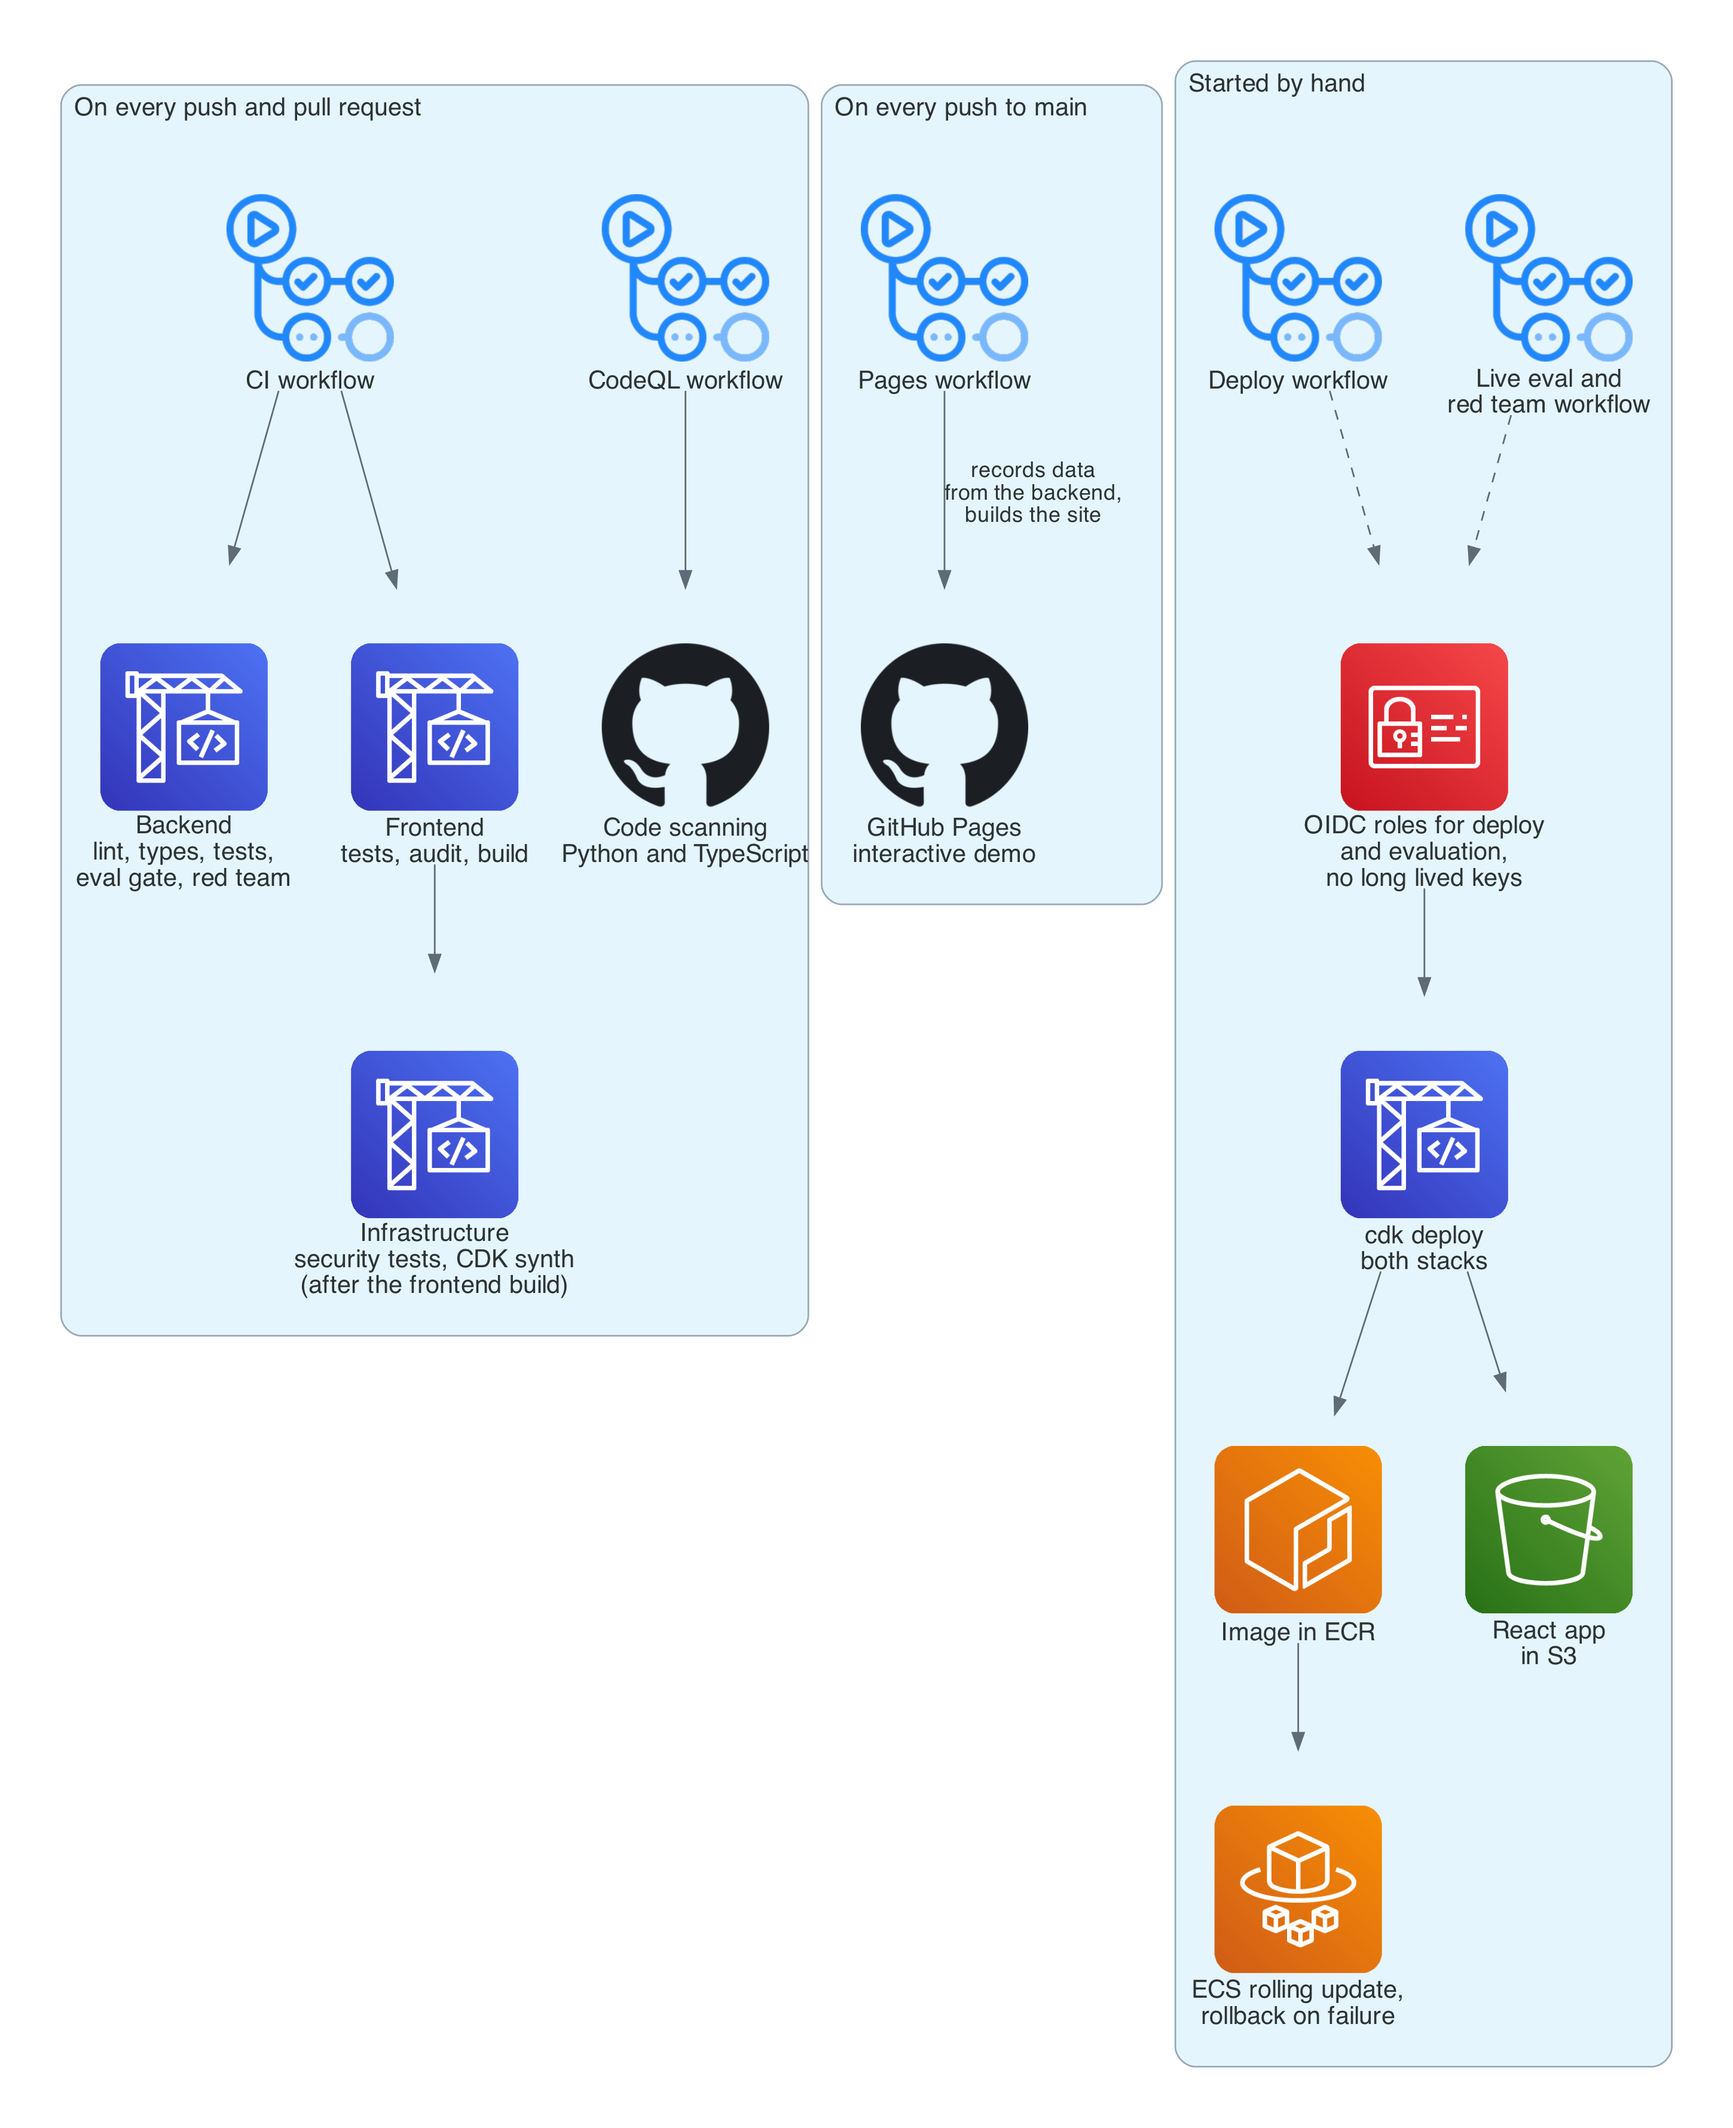
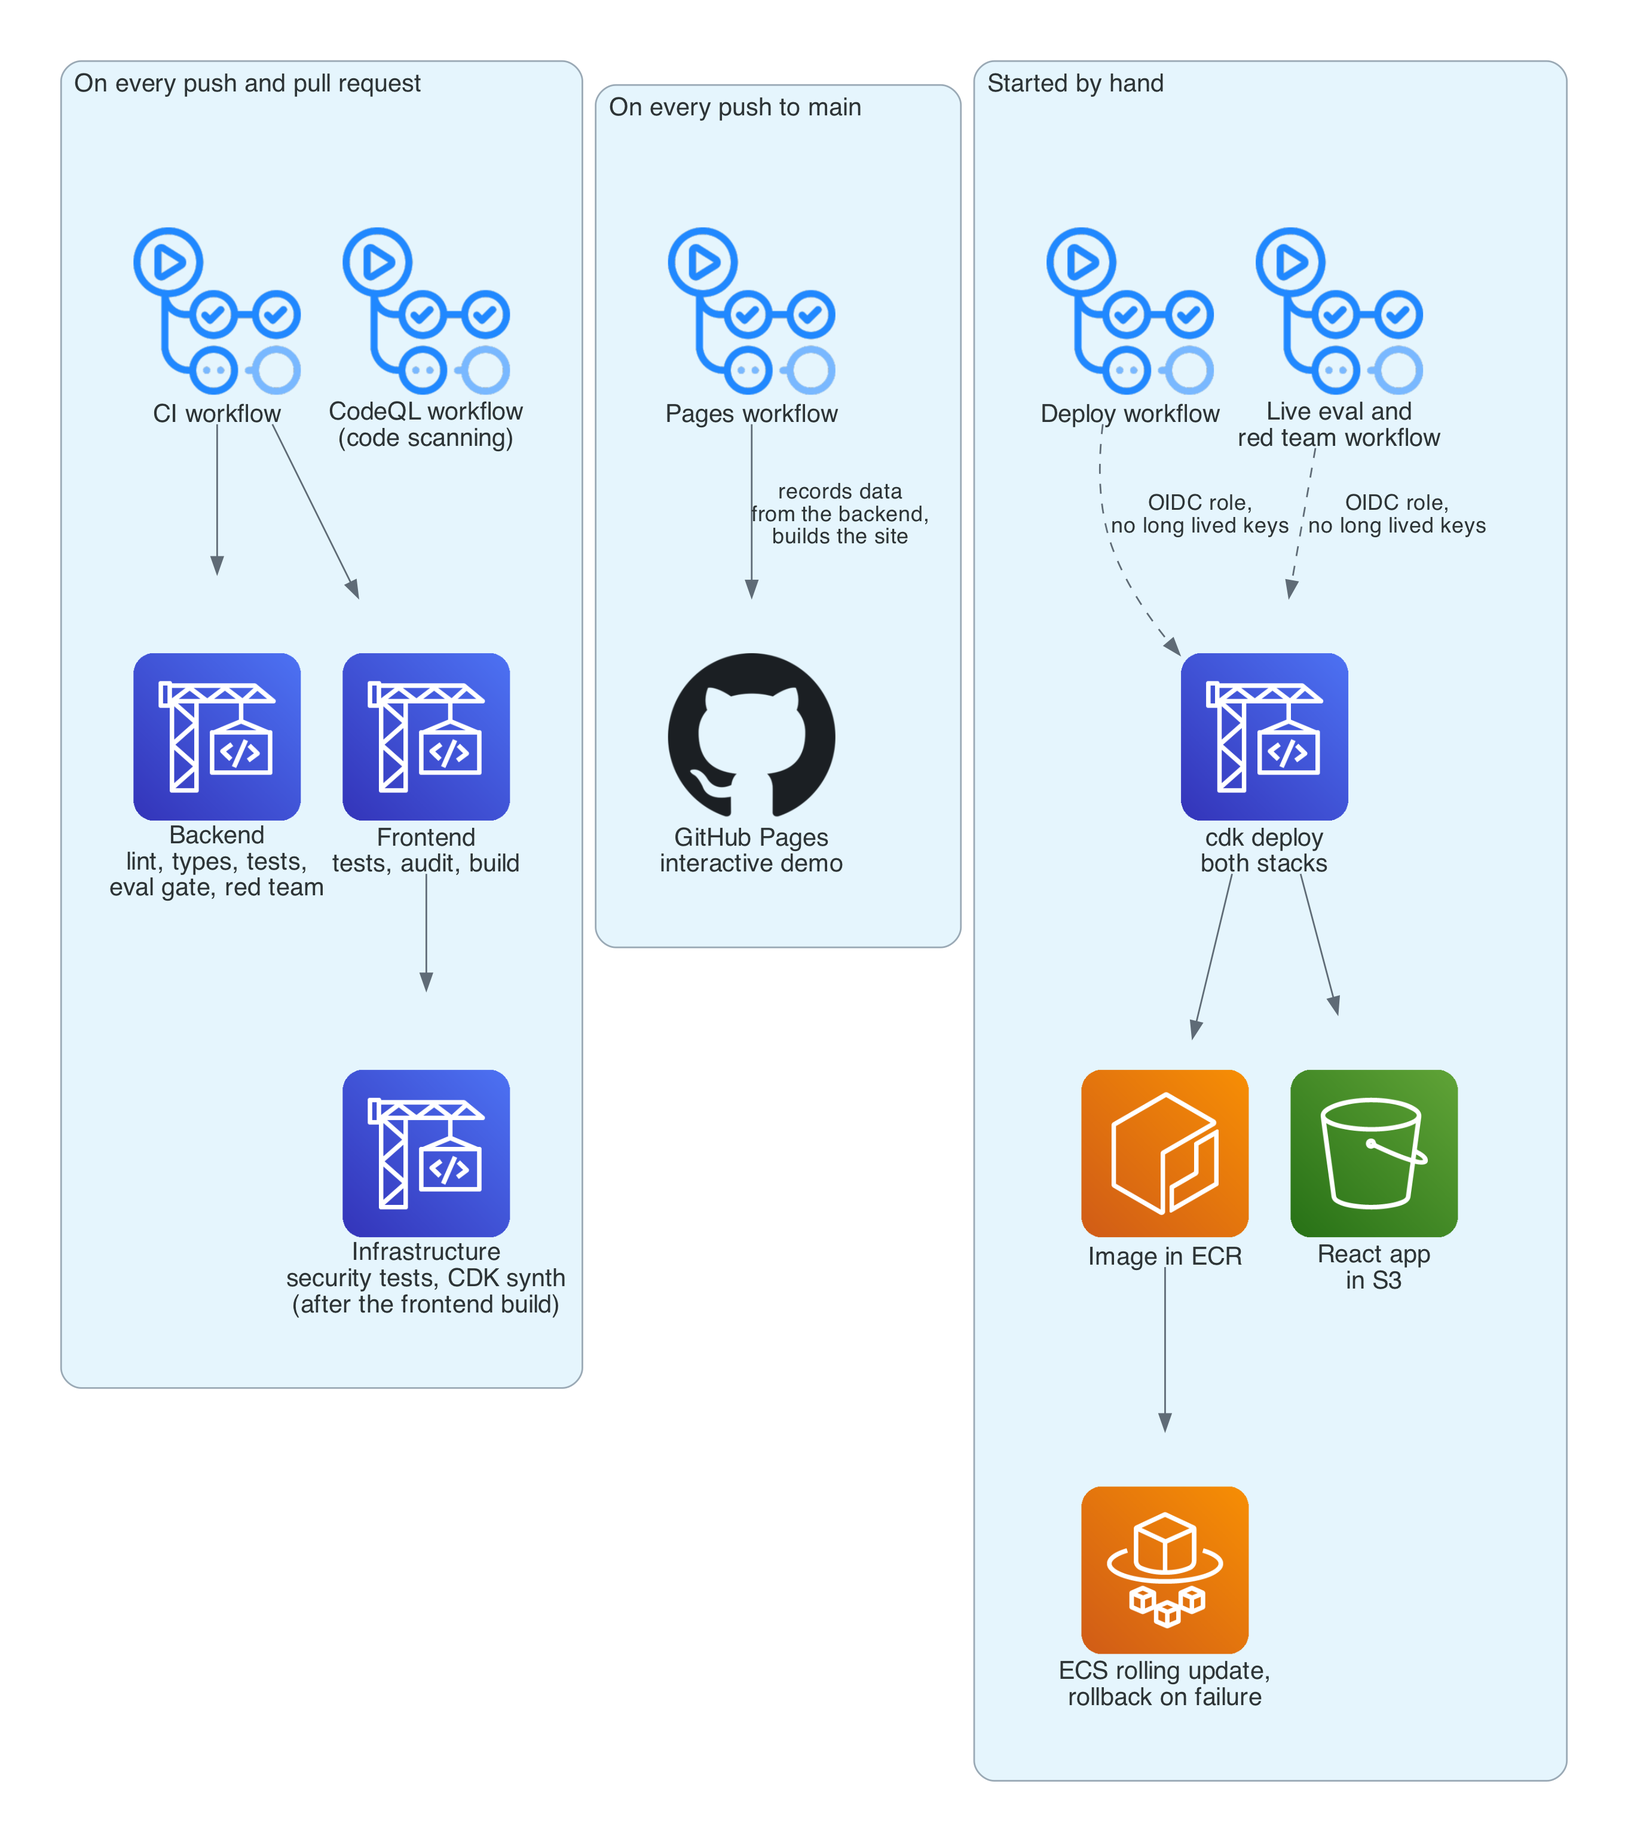
Resize the release path diagram

Changed region(s): [[0.0312, 0.0311, 0.9673, 0.9968], [0.9361, 0.0311, 0.9673, 0.0623]]

diff --git a/docs/diagrams/generate.py b/docs/diagrams/generate.py
@@ -31,9 +31,9 @@ EDGE = {"fontsize": "14", "fontname": "Helvetica", "color": "#5F6B76", "fontcolo
 BLUE = "#E5F5FD"
 
 
-def group(label: str, colour: str = BLUE) -> Cluster:
+def group(label: str, colour: str = BLUE, margin: str = "24") -> Cluster:
     """A group inside a frame. The colour is set here because a nested group would otherwise take the next colour in the library's cycle."""
-    return Cluster(label, graph_attr={"bgcolor": colour, "pencolor": "#9AA9B5", "fontsize": "15", "fontname": "Helvetica", "margin": "24"})
+    return Cluster(label, graph_attr={"bgcolor": colour, "pencolor": "#9AA9B5", "fontsize": "15", "fontname": "Helvetica", "margin": margin})
 
 
 def aws_cloud() -> Cluster:
@@ -101,32 +101,33 @@ def aws_architecture() -> None:
 
 
 def release_path() -> None:
-    """The three workflows that run on GitHub, as .github/workflows defines them. CI does not gate the deploy: deploy is started by hand."""
-    graph = GRAPH | {"rankdir": "TB", "splines": "spline", "ranksep": "0.7", "nodesep": "0.7"}
+    """The workflows that run on GitHub, as .github/workflows defines them. CI does not gate the deploy: deploy is started by hand.
+    The three lanes stand side by side and each one reads from top to bottom."""
+    graph = GRAPH | {"rankdir": "TB", "splines": "spline", "ranksep": "0.5", "nodesep": "0.35"}
     with Diagram("", filename=str(OUT / "release_path"), show=False, direction="TB", graph_attr=graph, node_attr=NODE, edge_attr=EDGE, outformat="png"):
-        with group("On every push and pull request"):
+        with group("On every push and pull request", margin="44"):
+            codeql = GithubActions("CodeQL workflow\n(code scanning)")
             ci = GithubActions("CI workflow")
             backend = Codebuild("Backend\nlint, types, tests,\neval gate, red team")
             frontend = Codebuild("Frontend\ntests, audit, build")
             infra = Codebuild("Infrastructure\nsecurity tests, CDK synth\n(after the frontend build)")
             ci >> [backend, frontend]
             frontend >> infra
-            codeql = GithubActions("CodeQL workflow")
-            codeql >> Github("Code scanning\nPython and TypeScript")
-        with group("On every push to main"):
+        with group("On every push to main", margin="44"):
             pages = GithubActions("Pages workflow")
             demo = Github("GitHub Pages\ninteractive demo")
             pages >> Edge(label="records data\nfrom the backend,\nbuilds the site") >> demo
-        with group("Started by hand"):
+        with group("Started by hand", margin="44"):
             deploy = GithubActions("Deploy workflow")
             live = GithubActions("Live eval and\nred team workflow")
-            role = IAM("OIDC roles for deploy\nand evaluation,\nno long lived keys")
             cdk = Codebuild("cdk deploy\nboth stacks")
             ecr = ECR("Image in ECR")
             ecs = Fargate("ECS rolling update,\nrollback on failure")
             site = S3("React app\nin S3")
-            [deploy, live] >> Edge(style="dashed") >> role
-            role >> cdk >> ecr >> ecs
+            oidc = Edge(style="dashed", label="OIDC role,\nno long lived keys")
+            deploy >> oidc >> cdk
+            live >> oidc >> cdk
+            cdk >> ecr >> ecs
             cdk >> site
 
 

diff --git a/README.md b/README.md
@@ -156,7 +156,7 @@ These principles settled the design questions below.
 | AWS CDK (Python) | Two stacks, `ClaimsAdjudicationData` and `ClaimsAdjudicationApp`. Synthesis needs no credentials. Tests check the security properties of the synthesised template and the facts the architecture diagram shows. The task role names its models, guardrail and resources. It has two wildcards: the region in foundation model ARNs, which global inference profiles need, and the CloudWatch metrics call, which is limited to one namespace. `-c production=true` keeps the data and logs when the stack is deleted |
 | GitHub Actions | Workflows for lint, types, tests, the eval gate, the red team, CodeQL, the interactive demo, live evaluation and deploy. The Python environment comes from `uv.lock`. Deploy and live evaluation sign in to AWS through OIDC, using role ARNs stored as repository variables, so no long lived keys are stored |
 
-![Release path](docs/images/release_path.png)
+<img src="docs/images/release_path.png" alt="Release path" width="560">
 
 The **CI** workflow runs on every push and pull request. It runs lint with the security rules, **mypy**, the **Python** tests, the replay quality gate, the **red team** in replay mode, the frontend tests, an **npm** audit, the type check and build, the infrastructure security tests, and **CDK** synthesis. The infrastructure job waits for the frontend build. A separate **CodeQL** workflow scans the **Python** and **TypeScript** code on every push. A third workflow publishes the interactive demo to **GitHub Pages** on every push to `main`. Deploy and live evaluation are manual workflows, and CI does not gate them. They need an **OIDC** provider and a deploy role that this **CDK** app does not create.
 
